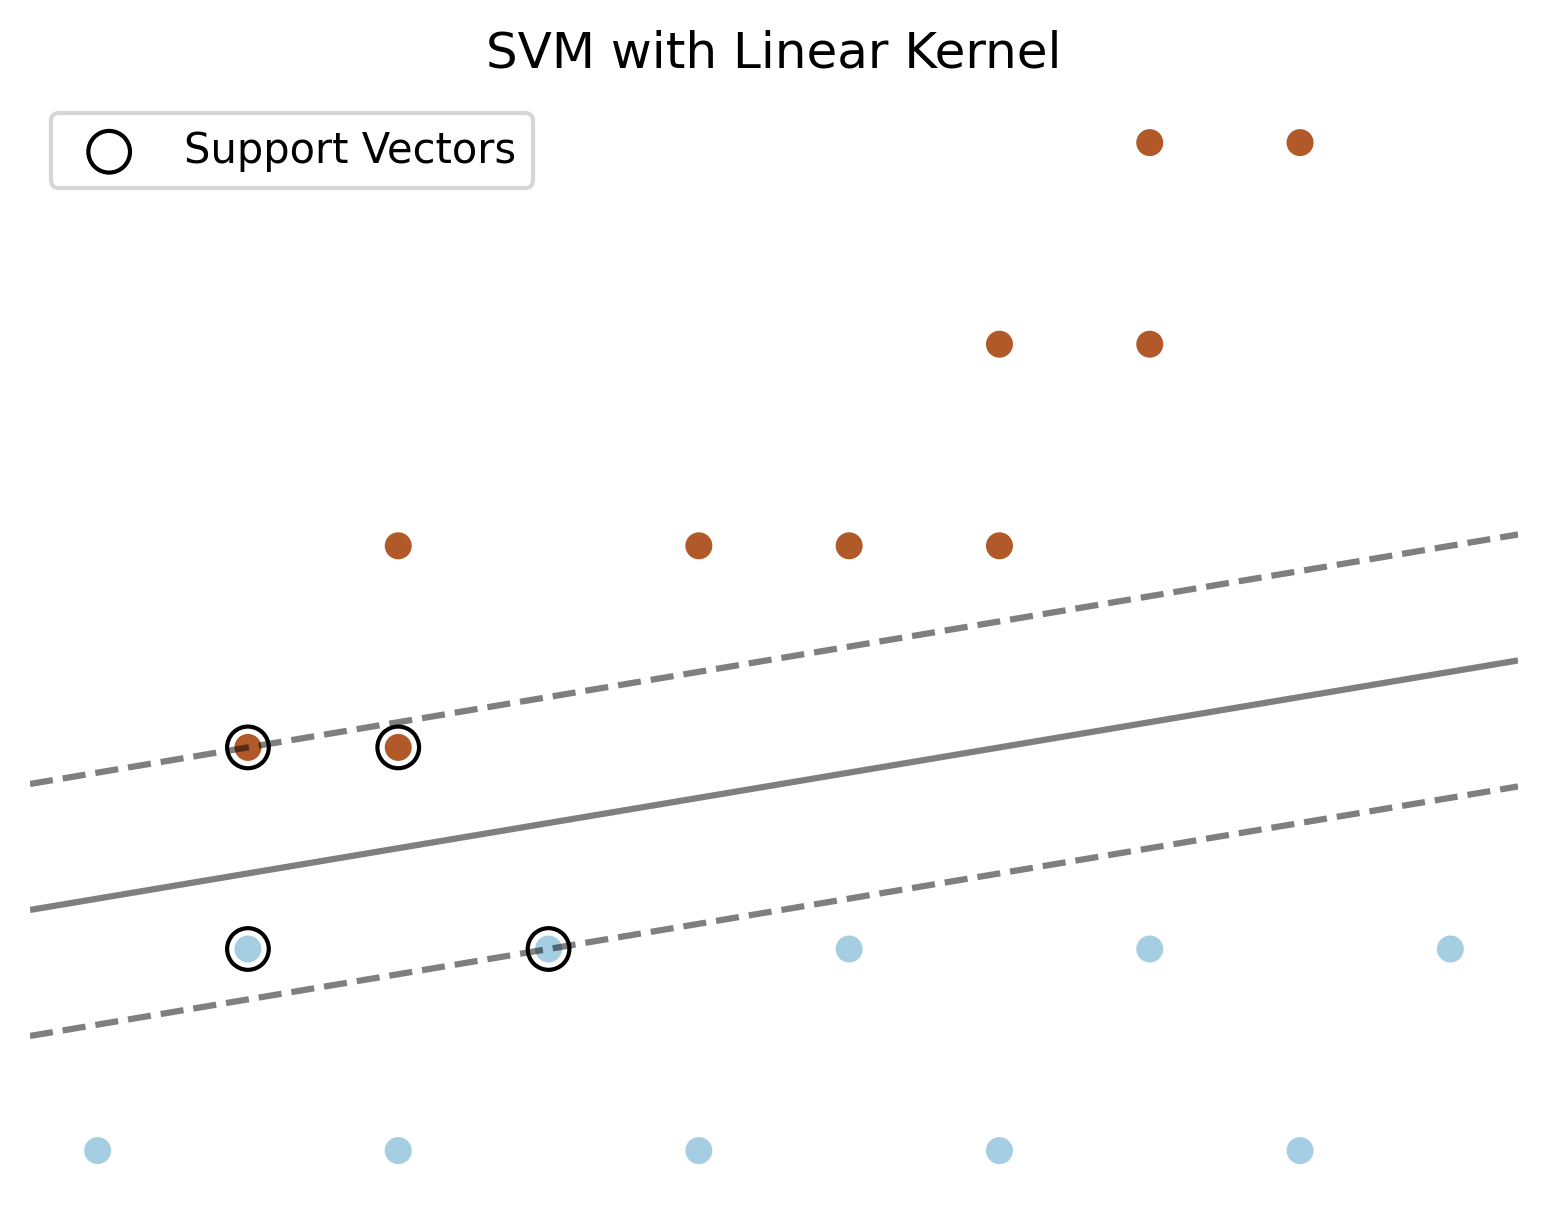
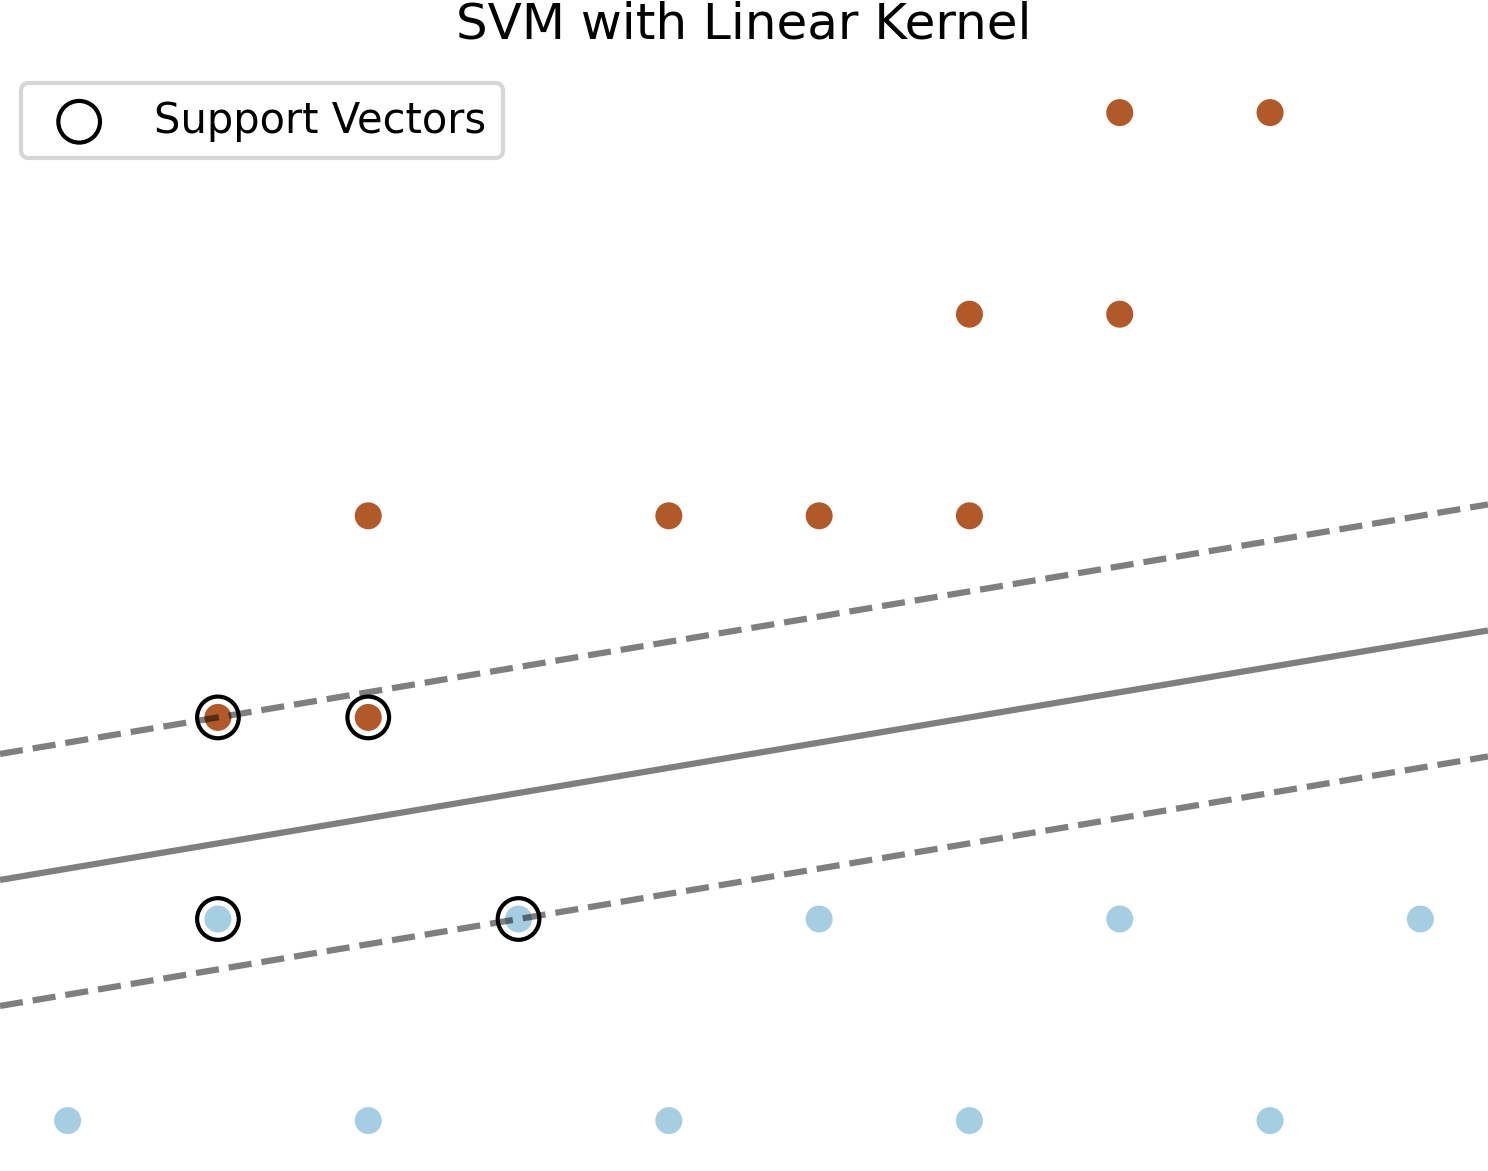
add additional graphs and code

diff --git a/code/linear_discrimant_functions.py b/code/linear_discrimant_functions.py
@@ -1,0 +1,63 @@
+import os
+import numpy as np
+import matplotlib.pyplot as plt
+from sklearn.discriminant_analysis import LinearDiscriminantAnalysis as LDA
+
+# Define the path to save images
+images_dir = os.path.join(os.path.dirname(__file__), '../images')
+
+# Ensure the images directory exists
+os.makedirs(images_dir, exist_ok=True)
+
+# Generate random data points for three classes
+np.random.seed(0)
+n_samples = 50
+
+# Class 1
+mean1 = [2, 2]
+cov1 = [[0.8, 0.2], [0.2, 0.8]]
+X1 = np.random.multivariate_normal(mean1, cov1, n_samples)
+y1 = np.zeros(n_samples)
+
+# Class 2
+mean2 = [6, 6]
+cov2 = [[0.8, -0.2], [-0.2, 0.8]]
+X2 = np.random.multivariate_normal(mean2, cov2, n_samples)
+y2 = np.ones(n_samples)
+
+# Class 3
+mean3 = [10, 2]
+cov3 = [[0.8, 0.2], [0.2, 0.8]]
+X3 = np.random.multivariate_normal(mean3, cov3, n_samples)
+y3 = np.full(n_samples, 2)
+
+# Combine the data
+X = np.vstack((X1, X2, X3))
+y = np.hstack((y1, y2, y3))
+
+# Fit LDA model
+lda = LDA()
+lda.fit(X, y)
+
+# Plot the data points with different markers
+plt.scatter(X1[:, 0], X1[:, 1], label='Class 1', alpha=1, color='red', marker='x')
+plt.scatter(X2[:, 0], X2[:, 1], label='Class 2', alpha=1, color='green', marker='+')
+plt.scatter(X3[:, 0], X3[:, 1], label='Class 3', alpha=1, color='blue', marker='o')
+
+# Plot decision boundaries
+x_min, x_max = X[:, 0].min() - 1, X[:, 0].max() + 1
+y_min, y_max = X[:, 1].min() - 1, X[:, 1].max() + 1
+xx, yy = np.meshgrid(np.linspace(x_min, x_max, 200), np.linspace(y_min, y_max, 200))
+Z = lda.predict(np.c_[xx.ravel(), yy.ravel()])
+Z = Z.reshape(xx.shape)
+
+plt.contourf(xx, yy, Z, alpha=0.3, levels=np.arange(3) - 0.5, colors=['#ffcccc', '#ccffcc', '#ccccff'], zorder=-1)
+plt.colorbar(ticks=[0, 1, 2], format='Class %d')
+
+plt.legend()
+plt.axis('off')  # Turn off the axis
+
+# Save the figure
+image_path = os.path.join(images_dir, 'lda_decision_boundaries.png')
+plt.savefig(image_path, format='png', dpi=300, bbox_inches='tight', pad_inches=0)
+plt.show()

diff --git a/code/svm_comparison.py b/code/svm_comparison.py
@@ -43,12 +43,13 @@ def plot_svm(X, y, model, title, filename):
     plt.axis('off')  # Turn off the axis
 
     # Save the plot to a file
-    plt.savefig(os.path.join(images_dir, filename), bbox_inches='tight')
+    plt.savefig(os.path.join(images_dir, filename), format='png', dpi=300, bbox_inches='tight', pad_inches=0)
+
     plt.close()
 
 # Plot and save the results
-plot_svm(X, y, svm_linear, 'SVM with Linear Kernel', 'SVM_linear.svg')
-plot_svm(X, y, svm_rbf, 'SVM with RBF Kernel', 'SVM_rbf.svg')
+plot_svm(X, y, svm_linear, 'SVM with Linear Kernel', 'SVM_linear.png')
+plot_svm(X, y, svm_rbf, 'SVM with RBF Kernel', 'SVM_rbf.png')
 
 # Print the number of support vectors
 print(f"Number of support vectors (linear kernel): {len(svm_linear.support_vectors_)}")
